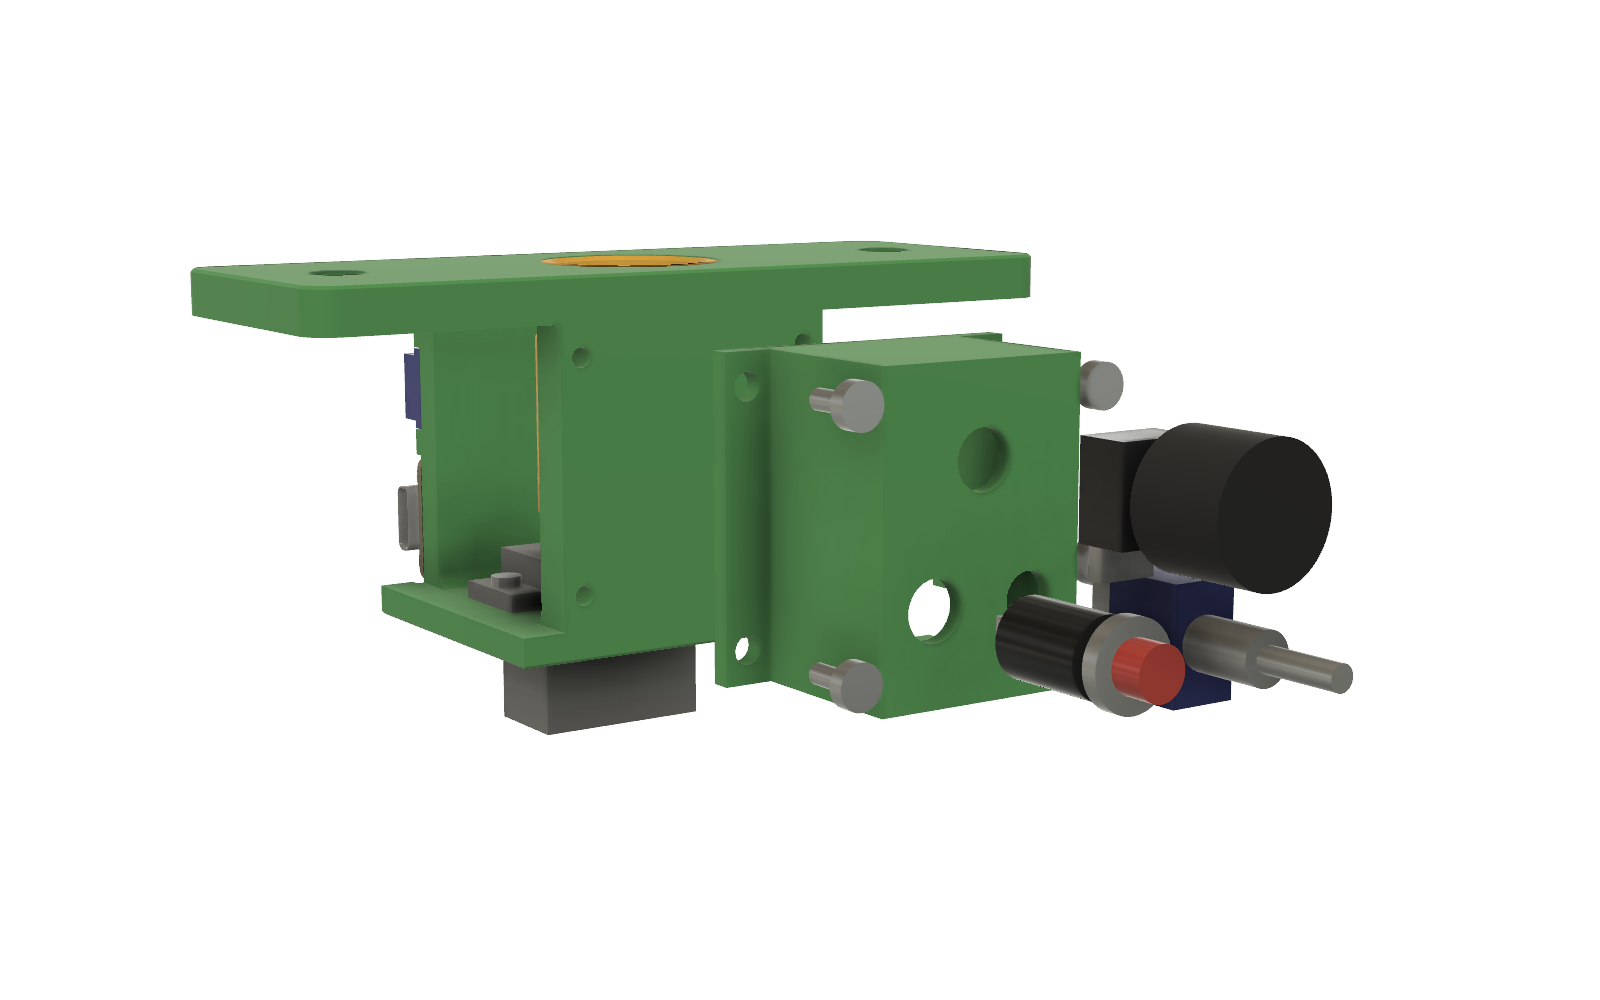
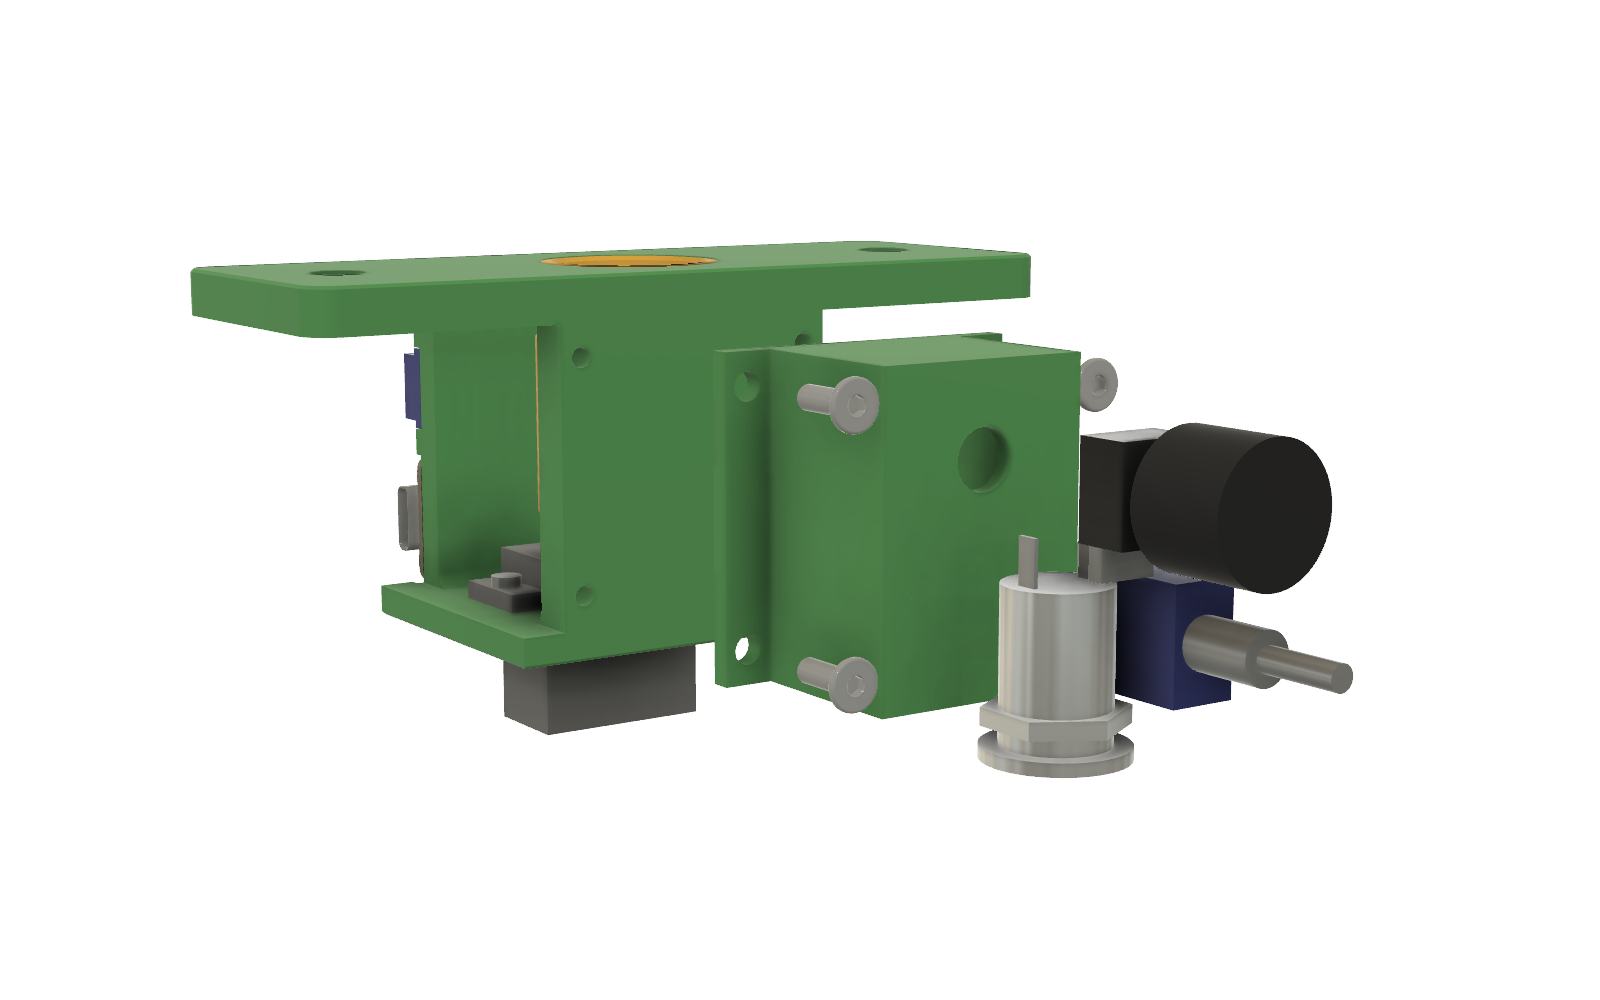
Bring docs up to date with the C1/D1 seats and link the schematic
- Schematic rev C: S1 labelled as the 12 mm stainless pre-wired button
- Schematic linked from README, parts, wiring and assembly
- Assembly, wiring, parts and BOM describe the diode inside the wall and
  the 8 mm press-fit capacitor; new c1_d1_seats close-up
- Re-rendered xray, exploded, wiring and step images from the current
  model (12 mm button, McMaster hardware); photo.py now handles
  components with several occurrences
- Cut lengths for L1-L3 updated to the new routes
- Quick start lists the panel coupon and dowel gauges

Claude-Session: https://claude.ai/code/session_01GpjEXhgSr9i81TFkHYveKS

diff --git a/cad/fusion/steps.py b/cad/fusion/steps.py
@@ -1,39 +1,42 @@
 import os
 REPO=os.environ.get('CAM_REPO', os.path.expanduser('~/cam-rotation-starter'))
 exec(open(os.path.join(REPO,'cad','fusion','photo.py')).read(), globals())
-ALT=('Adapter_025','Dowel_025','Bushing_025','Fit_Test_Coupon')
+ALT=('Adapter_025','Dowel_025','Bushing_025','Fit_Test_Coupon','Panel_Fit_Coupon','Dowel_Fit_Gauge','92114A106_Brass_Flat_Head_Wood_Screw_4x1-4')
 ORDER=[ # build order
  ('Servo_Mount',),
  ('Bushing_075',),
  ('MicroServoMG90S','MG90S_Spline','HW_Servo_Tab_Screws'),
- ('Adapter_075','HW_Horn_Screw'),
+ ('Adapter_075','HW_Horn_Screw','Horn_Screw_M2x4'),
  ('usbc_pd_w_switches','XIAO-ESP32S3 v2','D1_1N5817','C1_470uF_10V'),
- ('Control_Pod','RV1_Speed_Pot','SW1_Dir_Switch','S1_Push_Button','HW_Pod_Screws','Wiring'),
+ ('Control_Pod','RV1_Speed_Pot','SW1_Dir_Switch','S1_12mm_Button','HW_Pod_Screws','M3 x 8 Wafer Head Screw','Wiring'),
  ('Dowel_075',),
- ('Box_Wall','HW_Wall_Screws_Washers','HW_Set_Screw'),
+ ('Box_Wall','HW_Wall_Screws_Washers','HW_Set_Screw','98685A950_Brass_Rounded_Head_Wood_Screw_14x3-4','98026A029_Steel_Washer','#4 x 3/8 Flat Head Wood Screw (McMaster 90031A108)'),
 ]
 ALL=[n for g in ORDER for n in g]
 def upto(k):
     shown=[n for g in ORDER[:k+1] for n in g]
     return tuple(n for n in ALL if n not in shown)+ALT
 ELEC=('usbc_pd_w_switches','XIAO-ESP32S3 v2','D1_1N5817','C1_470uF_10V')
-CTRL=('RV1_Speed_Pot','SW1_Dir_Switch','S1_Push_Button')
+CTRL=('RV1_Speed_Pot','SW1_Dir_Switch','S1_12mm_Button')
 SHOTS={
  'xray_plusY': dict(hide=ALT+('Box_Wall',), opacity={'Servo_Mount':0.3,'Control_Pod':0.3}, eye=(260,330,90), target=(3,8,22), up=(0,0,1), ortho=True, extent=120),
  'xray_minusY': dict(hide=ALT+('Box_Wall',), opacity={'Servo_Mount':0.3,'Control_Pod':0.3}, eye=(220,-340,90), target=(3,-8,20), up=(0,0,1), ortho=True, extent=120),
- 'exploded_full': dict(hide=ALT+('Wiring',), opacity={'Servo_Mount':0.85},
+ 'exploded_full': dict(hide=ALT+('Wiring','#4 x 3/8 Flat Head Wood Screw (McMaster 90031A108)'), opacity={'Servo_Mount':0.85},
      move={'MicroServoMG90S':(0,0,-55),'MG90S_Spline':(0,0,-55),'Adapter_075':(70,0,0),'Bushing_075':(-75,0,0),
            'usbc_pd_w_switches':(0,-45,0),'XIAO-ESP32S3 v2':(0,-45,0),'D1_1N5817':(0,-45,0),'C1_470uF_10V':(0,-45,0),
-           'Control_Pod':(0,45,0),'RV1_Speed_Pot':(0,80,0),'SW1_Dir_Switch':(0,80,0),'S1_Push_Button':(0,80,0),
-           'Dowel_075':(0,0,45),'Box_Wall':(0,0,75),'HW_Servo_Tab_Screws':(0,0,22),'HW_Horn_Screw':(70,0,30),'HW_Set_Screw':(70,22,0),'HW_Pod_Screws':(0,62,0),'HW_Wall_Screws_Washers':(0,0,-30)},
+           'Control_Pod':(0,45,0),'RV1_Speed_Pot':(0,80,0),'SW1_Dir_Switch':(0,80,0),'S1_12mm_Button':(0,80,0),
+           'Dowel_075':(0,0,45),'Box_Wall':(0,0,75),'HW_Servo_Tab_Screws':(0,0,22),'HW_Horn_Screw':(70,0,30),'HW_Set_Screw':(70,22,0),'HW_Pod_Screws':(0,62,0),'HW_Wall_Screws_Washers':(0,0,-30),
+           'M3 x 8 Wafer Head Screw':(0,62,0),'98685A950_Brass_Rounded_Head_Wood_Screw_14x3-4':(0,0,-30),'98026A029_Steel_Washer':(0,0,-30),'Horn_Screw_M2x4':(70,0,30)},
      eye=(400,-420,200), target=(0,0,40), up=(0,0,1), ortho=True, extent=290),
  'step1_bushing': dict(hide=upto(1), move={'Bushing_075':(-55,0,-14)}, eye=(-230,-150,-90), target=(-15,0,22), up=(0,0,1), extent=200),
  'step2_servo': dict(hide=upto(2), move={'MicroServoMG90S':(0,0,-45),'MG90S_Spline':(0,0,-45),'HW_Servo_Tab_Screws':(0,0,18)}, eye=(170,-230,-150), target=(5,0,-5), up=(0,0,1), extent=230),
- 'step3_adapter': dict(hide=upto(3), move={'Adapter_075':(55,0,0),'HW_Horn_Screw':(55,0,26)}, eye=(250,-140,60), target=(20,0,12), up=(0,0,1), extent=220),
- 'step4_electronics': dict(hide=upto(4), move={'usbc_pd_w_switches':(0,-30,0),'XIAO-ESP32S3 v2':(0,-30,0),'D1_1N5817':(0,-30,0),'C1_470uF_10V':(0,-30,0)}, eye=(280,-190,70), target=(5,-25,10), up=(0,0,1), extent=230),
- 'step5_pod': dict(hide=upto(5), move={'Control_Pod':(0,35,0),'RV1_Speed_Pot':(0,65,0),'SW1_Dir_Switch':(0,65,0),'S1_Push_Button':(0,65,0),'HW_Pod_Screws':(0,55,0)}, hide_extra=('Wiring',), eye=(170,290,60), target=(3,45,12), up=(0,0,1), extent=240),
- 'step6_slide_on': dict(hide=ALT+('HW_Wall_Screws_Washers','HW_Set_Screw'), move={'Box_Wall':(0,0,75),'Dowel_075':(0,0,75)}, eye=(330,-380,250), target=(0,0,70), up=(0,0,1), ortho=True, extent=270),
- 'step7_secure': dict(hide=ALT, move={'HW_Wall_Screws_Washers':(0,0,-18)}, opacity={'Box_Wall':0.55}, eye=(330,-250,-120), target=(8,0,28), up=(0,0,1), ortho=True, extent=150),
+ 'step3_adapter': dict(hide=upto(3), move={'Adapter_075':(55,0,0),'HW_Horn_Screw':(55,0,26),'Horn_Screw_M2x4':(55,0,26)}, eye=(250,-140,60), target=(20,0,12), up=(0,0,1), extent=220),
+ 'step4_electronics': dict(hide=upto(4), move={'usbc_pd_w_switches':(0,-30,0),'XIAO-ESP32S3 v2':(0,-30,0),'D1_1N5817':(45,0,0),'C1_470uF_10V':(0,-30,0)}, eye=(280,-190,70), target=(5,-25,10), up=(0,0,1), extent=230),
+ 'wiring_electronics': dict(hide=ALT+('Box_Wall','Control_Pod'), opacity={'Servo_Mount':0.6}, eye=(5,-400,4), target=(5,-20,4), up=(0,0,1), ortho=True, extent=54),
+ 'c1_d1_seats': dict(hide=tuple(n for n in ALL if n not in ('Servo_Mount','C1_470uF_10V','D1_1N5817'))+ALT+('Wiring',), opacity={'Servo_Mount':0.4}, eye=(-160,90,70), target=(-4,-17,0), up=(0,0,1), ortho=True, extent=42),
+ 'step5_pod': dict(hide=upto(5), move={'Control_Pod':(0,35,0),'RV1_Speed_Pot':(0,65,0),'SW1_Dir_Switch':(0,65,0),'S1_12mm_Button':(0,65,0),'HW_Pod_Screws':(0,55,0),'M3 x 8 Wafer Head Screw':(0,55,0)}, hide_extra=('Wiring',), eye=(170,290,60), target=(3,45,12), up=(0,0,1), extent=240),
+ 'step6_slide_on': dict(hide=ALT+('HW_Wall_Screws_Washers','HW_Set_Screw','98685A950_Brass_Rounded_Head_Wood_Screw_14x3-4','98026A029_Steel_Washer','#4 x 3/8 Flat Head Wood Screw (McMaster 90031A108)'), move={'Box_Wall':(0,0,75),'Dowel_075':(0,0,75)}, eye=(330,-380,250), target=(0,0,70), up=(0,0,1), ortho=True, extent=270),
+ 'step7_secure': dict(hide=ALT, move={'HW_Wall_Screws_Washers':(0,0,-18),'98685A950_Brass_Rounded_Head_Wood_Screw_14x3-4':(0,0,-18),'98026A029_Steel_Washer':(0,0,-18)}, opacity={'Box_Wall':0.55}, eye=(330,-250,-120), target=(8,0,28), up=(0,0,1), ortho=True, extent=150),
 }
 def run_shots(names):
     out=[]

diff --git a/cad/fusion/photo.py b/cad/fusion/photo.py
@@ -9,15 +9,19 @@ def occs():
     return {o.component.name:o for o in d.rootComponent.occurrences}
 def shoot(name, hide=(), opacity=None, move=None, eye=(0,0,0), target=(0,0,0), up=(0,0,1), ortho=False, w=1800, h=1100, extent=None, save=True):
     """move: {comp: (dx,dy,dz) mm}; opacity: {comp: 0..1}; eye/target in mm"""
-    O=occs(); log=[]
-    state={n:(o.isLightBulbOn,[(b,b.opacity) for b in o.bRepBodies],o.transform2.copy()) for n,o in O.items()}
+    # names match every top-level occurrence of that component (imported hardware often has several)
+    ALLO=list(d.rootComponent.occurrences); log=[]
+    named=lambda n:[o for o in ALLO if o.component.name==n]
+    state=[(o,o.isLightBulbOn,[(b,b.opacity) for b in o.bRepBodies],o.transform2.copy()) for o in ALLO]
     try:
         for n in hide:
-            if n in O: O[n].isLightBulbOn=False
+            for o in named(n): o.isLightBulbOn=False
         for n,v in (opacity or {}).items():
-            for b in O[n].bRepBodies: b.opacity=v
+            for o in named(n):
+                for b in o.bRepBodies: b.opacity=v
         for n,(dx,dy,dz) in (move or {}).items():
-            m=O[n].transform2.copy(); t=m.translation; t.add(Vc(dx/10,dy/10,dz/10)); m.translation=t; O[n].transform2=m
+            for o in named(n):
+                m=o.transform2.copy(); t=m.translation; t.add(Vc(dx/10,dy/10,dz/10)); m.translation=t; o.transform2=m
         for c in d.allComponents:
             for attr in ('isJointsFolderLightBulbOn','isJointOriginsFolderLightBulbOn','isConstructionFolderLightBulbOn','isSketchFolderLightBulbOn','isOriginFolderLightBulbOn'):
                 try: setattr(c,attr,False)
@@ -40,8 +44,8 @@ def shoot(name, hide=(), opacity=None, move=None, eye=(0,0,0), target=(0,0,0), u
     except: log.append(traceback.format_exc())
     finally:
         if save:
-            for n,(lb,ops,tr) in state.items():
-                o=O[n]; o.transform2=tr; o.isLightBulbOn=lb
+            for o,lb,ops,tr in state:
+                o.transform2=tr; o.isLightBulbOn=lb
                 for b,v in ops: b.opacity=v
             log.append('restored; pending snapshot=%s'%d.snapshots.hasPendingSnapshot)
     return '\n'.join(log)

diff --git a/docs/assembly.md b/docs/assembly.md
@@ -10,7 +10,7 @@ The images show the 3/4" dowel setup. The 5/8" and 1/4" setups are the same with
 
 **Control side.** The yellow adapter sits on the servo's output spline, with the bushing directly above it in the flange. The controls sit inside the pod, clear of the spinning adapter.
 
-![X-ray from the electronics side: the USB-C PD board and XIAO in their wall pockets, the capacitor and diode beside the XIAO, and the servo below.](images/xray_minusY.png)
+![X-ray from the electronics side: the USB-C PD board and XIAO in their wall pockets, the capacitor in its seat beside the XIAO, the wiring, and the servo below.](images/xray_minusY.png)
 
 **Electronics side.** The PD board (blue) and XIAO sit in pockets in the wall, held with zip ties. The capacitor snaps into a seat in the wall beside the XIAO; the diode sits in a channel on the inside of that wall, with its leads poking through. Every wire from the [wire list](wiring.md) is modeled, in its own colour.
 
@@ -24,8 +24,11 @@ The images show the 3/4" dowel setup. The 5/8" and 1/4" setups are the same with
 
 ## Wiring, as modeled
 
-![Straight-on view of the electronics side: power leads down the left edge, control wires on the XIAO's top row, power on its bottom row, orange signal up the right side through the resistor.](images/wiring_electronics.png)
+The circuit is in the [schematic](images/schematic.svg); the wire-by-wire list and cut lengths are in [wiring.md](wiring.md). This is how it lays out on the mount.
 
+![Straight-on view of the electronics side: the capacitor beside the XIAO, power leads down the left edge, control wires on the XIAO's top row, power on its bottom row, orange signal up the right side through the resistor.](images/wiring_electronics.png)
+
+- **C1 and D1:** the capacitor snaps into a round seat beside the XIAO. The diode is on the inside of the same wall, so it's hidden here; its two leads come out through the wall just below the capacitor, where L3 and W3 are soldered on.
 - **PD board screw terminal (top left):** + takes the servo red, C1's + lead (L1) and D1's anode (L3). GND takes the servo brown, C1's − lead (L2) and W4.
 - **XIAO top row,** from the USB end: D0 orange through R1, then D1 (button lead), D2 yellow, D3 green and D4 blue.
 - **XIAO bottom row,** from the USB end: 5V red from D1's banded end (W3), GND with two blacks (W4 from the terminal, W11 to the pod), and 3V3 violet.
@@ -96,9 +99,11 @@ Full list with sources: [parts.md](parts.md) and [hardware/README.md](../hardwar
 
 ### 4. Mount and wire the electronics
 
-![The PD board, XIAO, capacitor and diode pulled away from the mount's electronics side wall.](images/step4_electronics.png)
+![The PD board, XIAO and capacitor pulled away from the mount's electronics side wall, and the diode pulled out of the mount's open end.](images/step4_electronics.png)
 
-*Parts:* PD board, XIAO ESP32-C6, 1N5817 diode, 470 µF capacitor, 330 Ω resistor, zip ties.
+![See-through close-up of the electronics side wall: the diode lies in a channel on the inside face at the floor, and the capacitor sits in its round seat on the outside.](images/c1_d1_seats.png)
+
+*Parts:* PD board, XIAO ESP32-C6, 1N5817 diode, 470 µF capacitor (8 mm), 330 Ω resistor, zip ties, a dab of glue. Circuit: [schematic](images/schematic.svg).
 
 1. Set the PD board to 5 V. Plug in a charger and confirm 5 V with a meter before connecting anything else.
 2. **Diode first, from inside the mount.** Bend the 1N5817's leads 90° right at the body, banded end toward the XIAO's side. Working through the mount's open end, lay the diode in the half-round channel at the bottom of the electronics-side wall's inner face and push both leads out through the two 1 mm holes. A dab of glue in the channel keeps it there. It sits below the adapter and clear of the servo.
@@ -109,9 +114,7 @@ Full list with sources: [parts.md](parts.md) and [hardware/README.md](../hardwar
 
 ### 5. Build and attach the control pod
 
-![The control pod pulled away from the mount, with its controls pulled out.](images/step5_pod.png)
-
-*This render predates the 12 mm button; see the pod images above for its position.*
+![The control pod pulled away from the mount, with the 12 mm button, switch, knob and four M3 screws pulled out.](images/step5_pod.png)
 
 *Parts:* `Control_Pod`, pot and knob, toggle switch, 12 mm button, 4 × M3 screws.
 

diff --git a/docs/wiring.md b/docs/wiring.md
@@ -2,7 +2,11 @@
 
 A USB-C PD trigger board set to 5 V powers the MG90S servo directly and feeds the XIAO ESP32-C6 through a diode. The XIAO drives the servo's signal wire from D0. A push button, a speed knob and a forward / stop / reverse switch give hands-on control without a phone. All grounds are tied together.
 
-![Schematic: PD board 5 V to the servo and, through diode D1, to the XIAO 5V pin; 470 µF capacitor across 5 V; XIAO D0 through 330 Ω to the servo signal; button S1 from D1 to ground; 10 kΩ knob RV1 between 3.3 V and ground with its wiper on D2; switch SW1 common to ground, throws to D3 and D4.](images/schematic.svg)
+## Schematic
+
+[Open the schematic full size](images/schematic.svg) (SVG, rev C). It shows the circuit only; where each part sits on the mount is in [assembly step 4](assembly.md#4-mount-and-wire-the-electronics).
+
+![Schematic: PD board 5 V to the servo and, through diode D1, to the XIAO 5V pin; 470 µF capacitor across 5 V; XIAO D0 through 330 Ω to the servo signal; 12 mm button S1 from D1 to ground; 10 kΩ knob RV1 between 3.3 V and ground with its wiper on D2; switch SW1 common to ground, throws to D3 and D4.](images/schematic.svg)
 
 ![Wire colour key](images/wire-colors.svg)
 
@@ -28,8 +32,8 @@ A USB-C PD trigger board set to 5 V powers the MG90S servo directly and feeds th
 | U1 | USB-C PD trigger board | Set to 5 V |
 | U2 | Seeed XIAO ESP32-C6 | In the mount's side pocket |
 | M1 | MG90S, 360° continuous | Horn removed; adapter on the spline |
-| D1 | Schottky diode, 1 A (1N5817 or SS14) | Stripe toward the XIAO |
-| C1 | Electrolytic, 470 µF, ≥ 10 V | Mind polarity |
+| D1 | Schottky diode, 1 A (1N5817 or SS14) | Axial. Lies in a channel inside the mount wall, leads out through two holes; stripe toward the XIAO |
+| C1 | Electrolytic, 470 µF, ≥ 10 V, 8 mm diameter | Press-fits into the seat beside the XIAO; mind polarity |
 | R1 | Resistor, 330 Ω | In line on the servo signal |
 | S1 | 12 mm stainless momentary push button, 1 NO, pre-wired 150 mm leads | In the pod's outer face |
 | RV1 | 9 mm potentiometer, 10 kΩ linear (B10K), M7 bushing, with knob | Pod side face |
@@ -88,9 +92,9 @@ Lengths measured along the routes in the 3D model, plus 15% slack for routing an
 | W1 | red | servo cable | 65 mm from the servo case | **trim to 85** |
 | W2 | brown | servo cable | 59 mm | **trim to 80** |
 | W5 | orange | servo cable | 74 mm to R1 | **trim to 95** |
-| L1 | red | 22–26 AWG | 44 mm | **65** |
-| L2 | black | 22–26 AWG | 30 mm | **45** |
-| L3 | red | 22–26 AWG | 34 mm | **50** |
+| L1 | red | 22–26 AWG | 49 mm | **70** |
+| L2 | black | 22–26 AWG | 35 mm | **50** |
+| L3 | red | 22–26 AWG | 36 mm | **55** |
 | W3 | red | 22–26 AWG | 25 mm | **40** |
 | W4 | black | 22–26 AWG | 59 mm | **80** |
 | W6 | button lead | pre-wired | 141 mm | **use the 150 mm lead** |
@@ -118,7 +122,7 @@ Lengths measured along the routes in the 3D model, plus 15% slack for routing an
 
 1. Set the PD board to 5 V. Plug in the charger and measure OUT+ to OUT− with a meter before wiring anything.
 2. Before applying power, use the meter's continuity mode to check each row of the terminal check table, and confirm that + and GND are not connected to each other.
-3. Wire ground first, then +5V, then the signal. Check C1's polarity (stripe = −) and D1's orientation (stripe toward the XIAO).
+3. Wire ground first, then +5V, then the signal. Check C1's polarity (stripe = −) and D1's orientation (stripe toward the XIAO). D1 goes into the mount before you solder its leads; see [assembly step 4](assembly.md#4-mount-and-wire-the-electronics).
 4. Flash the firmware (see [`firmware/README.md`](../firmware/README.md)). On first power-up, open Settings → Stop trim and adjust until the shaft stands still.
 5. Check the controls: the button should start and pause a story, the knob should change speed, and the switch should run forward, stop in the centre, and reverse.
 

diff --git a/docs/parts.md b/docs/parts.md
@@ -1,6 +1,6 @@
 # Parts
 
-Everything for one drive unit. The same list is in [`bom.csv`](bom.csv). Fasteners, with McMaster part numbers and STEP models, are detailed in [`hardware/README.md`](../hardware/README.md).
+Everything for one drive unit. The same list is in [`bom.csv`](bom.csv). How it all connects is in the [schematic](images/schematic.svg) and [wiring notes](wiring.md). Fasteners, with McMaster part numbers and STEP models, are detailed in [`hardware/README.md`](../hardware/README.md).
 
 ## Electronics
 
@@ -9,8 +9,8 @@ Everything for one drive unit. The same list is in [`bom.csv`](bom.csv). Fastene
 | U2 | 1 | Seeed Studio XIAO ESP32-C6 | Make sure it's the **C6**; the firmware is built for it. |
 | U1 | 1 | USB-C PD trigger board with screw terminal | Must have a **5 V** setting. The mount's pocket fits a board about 28 × 11 mm. |
 | M1 | 1 | MG90S servo, **360° continuous rotation**, metal gear | The plain MG90S is the 180° positional version and won't turn a cam. |
-| D1 | 1 | 1N5817 Schottky diode (or SS14) | |
-| C1 | 1 | 470 µF electrolytic capacitor, ≥ 10 V | |
+| D1 | 1 | 1N5817 Schottky diode (or SS14) | Through-hole (axial); its leads pass through the mount wall. |
+| C1 | 1 | 470 µF electrolytic capacitor, ≥ 10 V | **8 mm diameter**, radial: it press-fits into a seat in the mount. For another size, change `c1_seat_dia` and reprint. |
 | R1 | 1 | 330 Ω resistor | |
 | — | 1 | USB-C charger that supports PD | Most phone and laptop chargers do. |
 
@@ -32,7 +32,9 @@ Print files and settings are in [`cad/stl`](../cad/stl/README.md).
 | `Control_Pod` | 1 | Front panel down |
 | `Adapter_075` / `Adapter_0625` / `Adapter_025` | 1 for your dowel | Spline end down |
 | `Bushing_075` / `Bushing_0625` / `Bushing_025` | 1 to match | Flange down |
+| `Panel_Fit_Coupon` | 1 | Test the button, switch and knob holes before printing the pod |
 | `Fit_Test_Coupon` | 1 | Print first to check the spline fit |
+| `Dowel_Gauge_075` / `_0625` / `_025` | 1 for your dowel | Find the right socket and bushing clearance for your dowels |
 | Clamps, sleeved adapter, shims | optional | For sanded dowels; see [assembly](assembly.md#sanded-or-undersize-dowels) |
 
 ## Fasteners
@@ -52,5 +54,6 @@ Print files and settings are in [`cad/stl`](../cad/stl/README.md).
 - 30 AWG silicone or Kynar wire: white, yellow, violet, green, blue, black
 - 22–26 AWG wire: red and black
 - Heat-shrink assortment
+- Hot glue or CA glue (a dab to hold the diode)
 - Small zip ties, 2.5–3.5 mm wide
 - Wooden dowels: 3/4", 5/8" or 1/4"

diff --git a/README.md b/README.md
@@ -18,8 +18,9 @@ Made by Rick Anderson and Sonia Yaco.
 | I want to… | Go to |
 |---|---|
 | See what to buy | [docs/parts.md](docs/parts.md) · [docs/bom.csv](docs/bom.csv) |
+| See the circuit | [schematic](docs/images/schematic.svg) · [wiring notes](docs/wiring.md) |
 | Print the parts | [cad/stl](cad/stl/README.md) |
-| Wire it | [docs/wiring.md](docs/wiring.md) · [cut list](docs/cut-list.csv) |
+| Wire it | [schematic](docs/images/schematic.svg) · [docs/wiring.md](docs/wiring.md) · [cut list](docs/cut-list.csv) |
 | Build it | [docs/assembly.md](docs/assembly.md) |
 | Flash the firmware | [firmware/README.md](firmware/README.md) |
 | Use it with students | [classroom/README.md](classroom/README.md) |
@@ -28,8 +29,8 @@ Made by Rick Anderson and Sonia Yaco.
 
 ## Quick start
 
-1. **Print** `Panel_Fit_Coupon` and `Fit_Test_Coupon` first to check the controls and the servo spline, then the mount, pod, and the adapter and bushing for your dowel size.
-2. **Wire** the electronics from the [wire list](docs/wiring.md). Set the PD board to 5 V and check it with a meter before connecting anything.
+1. **Print** the test pieces first: `Panel_Fit_Coupon` (button, switch and knob holes), `Fit_Test_Coupon` (servo spline) and the `Dowel_Gauge` strip for your dowel size. Then print the mount, pod, and the adapter and bushing for your dowel. See the [print order](cad/stl/README.md#print-order-for-a-fit-test).
+2. **Wire** the electronics from the [schematic](docs/images/schematic.svg) and [wire list](docs/wiring.md). Set the PD board to 5 V and check it with a meter before connecting anything.
 3. **Flash** the firmware:
    ```sh
    cd firmware/web && npm install && npm run build && cd ..

diff --git a/AGENTS.md b/AGENTS.md
@@ -10,7 +10,8 @@ Read README.md first. This repository is open hardware: a 3D-printed servo drive
 | `cad/step/` | `.step` and `.f3d` exports of the Fusion design | The live design is in the owner's Fusion account; these are snapshots. Re-export after design changes. |
 | `cad/stl/` | Print-ready STLs + `README.md` | Generated by `cad/fusion/orient_stl.py` from `cad/stl/raw/` exports; the parts table in the README is rewritten between `<!-- parts -->` markers. |
 | `cad/fusion/` | Fusion scripts | `wires.py` rebuilds the `Wiring` component from waypoint lists; `photo.py`/`steps.py` render `docs/images`. Run inside Fusion (or via the Fusion MCP server with `exec(open(...).read())`). |
-| `docs/` | parts, wiring, cut list, assembly | Markdown + CSV. Wire IDs (W1–W11, L1–L3, J1–J2, R1) must match `cad/fusion/wires.py` body names and `docs/cut-list.csv`. |
+| `docs/` | parts, wiring, cut list, assembly | Markdown + CSV. Wire IDs (W1–W11, L1–L3, J1–J2, R1) must match `cad/fusion/wires.py` body names and `docs/cut-list.csv`. Cut lengths: routed polyline length × 1.15 + 10 mm, rounded up to 5 mm. |
+| `docs/images/schematic.svg` | the circuit | Hand-drawn SVG, not an EDA file. Keep it in step with the connections table in `docs/wiring.md`; bump the REV in its title block when it changes. |
 | `hardware/` | fastener table + McMaster STEP files | |
 | `classroom/` | teaching notes + example stories | Story JSON must match the firmware's format (see `firmware/README.md`). |
 
